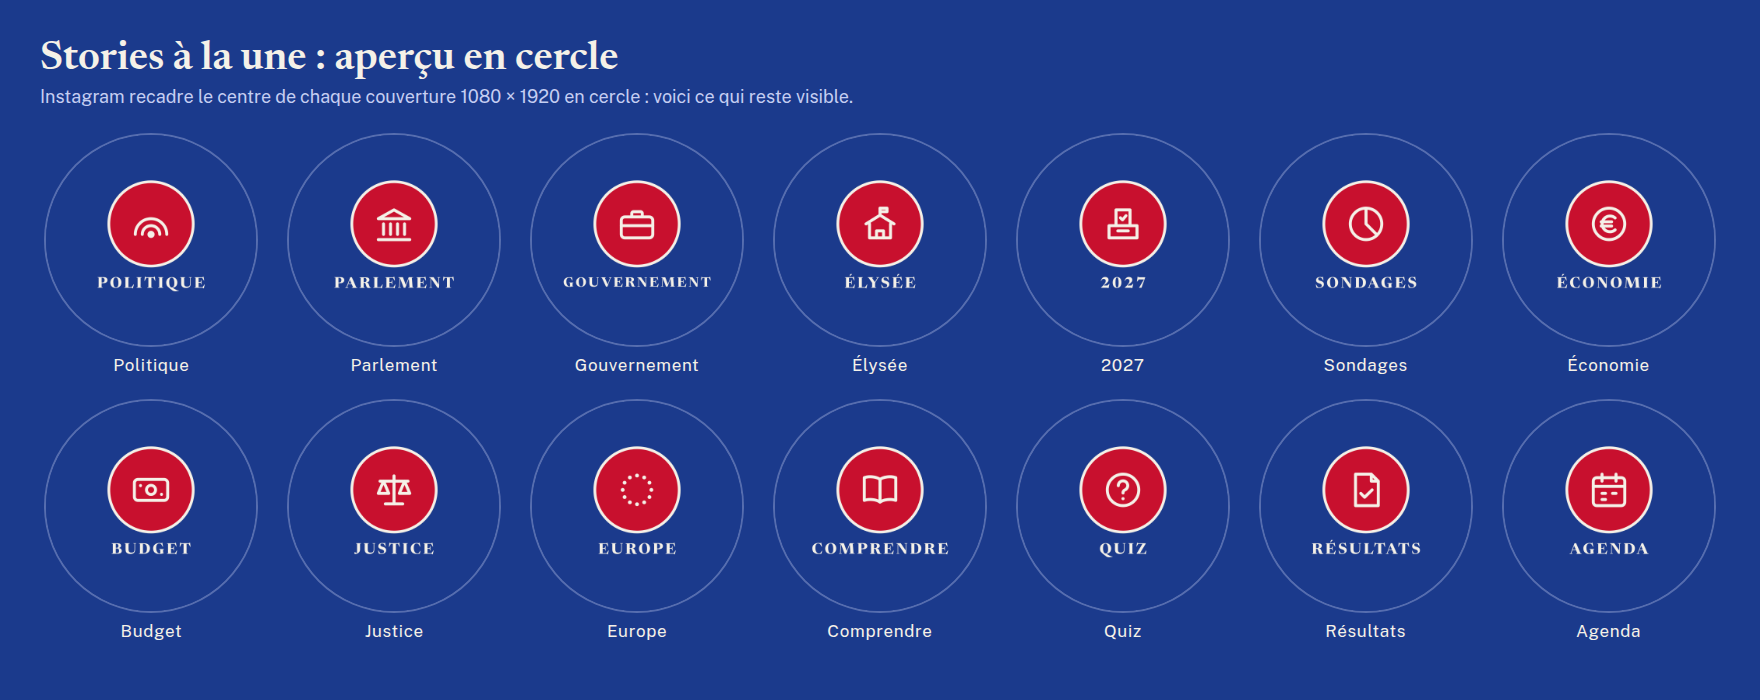
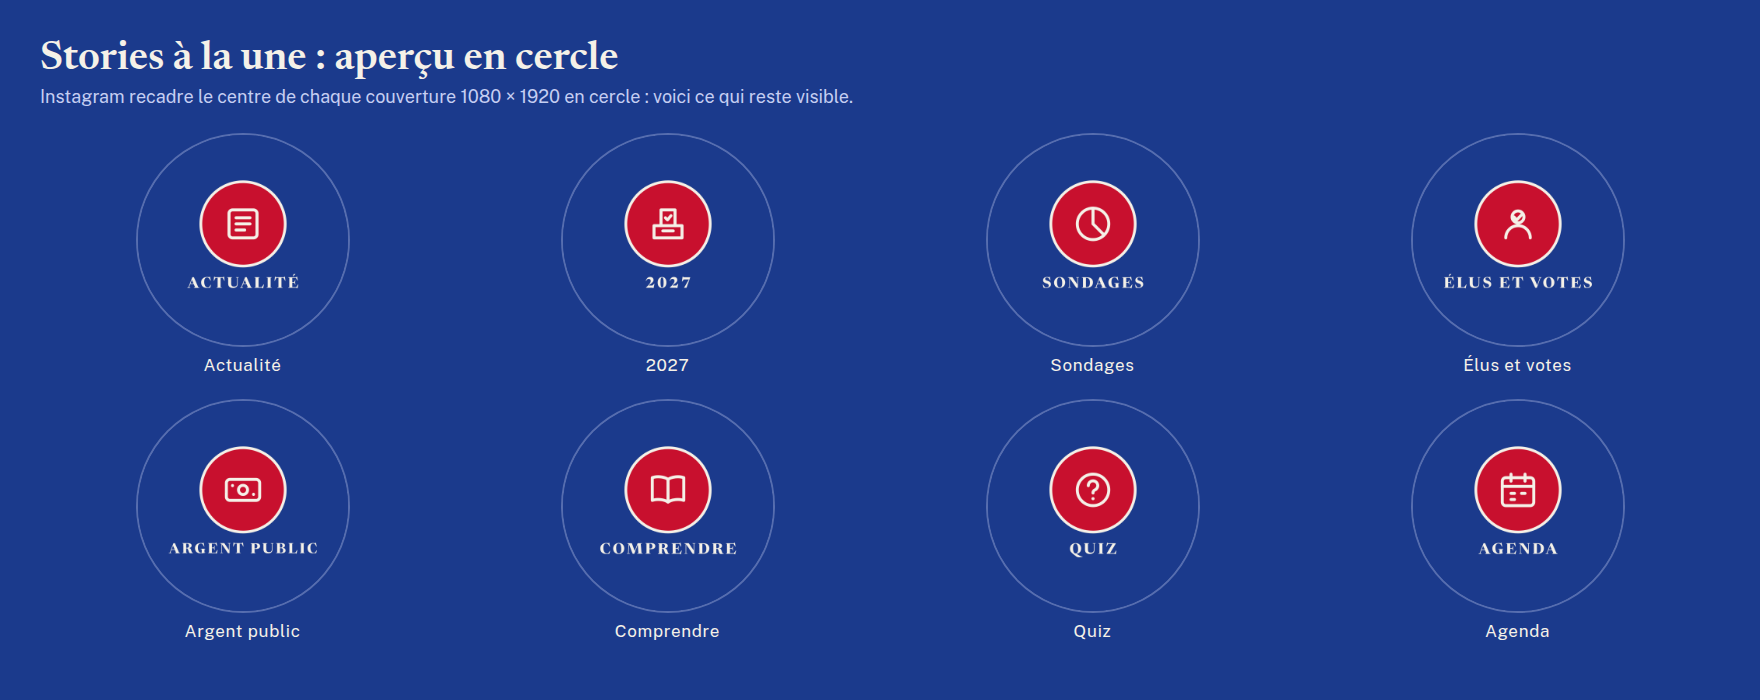
À la une : 8 rubriques (actualité, 2027, sondages, élus et votes, argent public, comprendre, quiz, agenda)

diff --git a/docs/A-LA-UNE.md b/docs/A-LA-UNE.md
@@ -1,34 +1,27 @@
 # Les stories à la une (Highlights) d'@hemicyclefrance
 
 **Ce qui est automatique, ce qui ne l'est pas.** L'API Instagram ne permet ni de créer une « à la une » ni d'y ajouter une story :
-cela se fait **à la main, dans l'appli**. Le dépôt prépare tout le reste : 14 couvertures aux couleurs du site, une règle de classement
+cela se fait **à la main, dans l'appli**. Le dépôt prépare tout le reste : 8 couvertures aux couleurs du site, une règle de classement
 simple, et chaque dimanche une liste « à ajouter cette semaine » (voir la fin de ce guide). Comptez 2 minutes par une, une seule fois ;
 ensuite, 2 minutes par semaine.
 
 ## 1. Les couvertures
 
-Les 14 couvertures (1080 × 1920 PNG, fond bleu, disque rouge, icône et mot court centrés) sont dans `instagram/a-la-une/`.
+Les 8 couvertures (1080 × 1920 PNG, fond bleu, disque rouge, icône et mot court centrés) sont dans `instagram/a-la-une/`.
 Aperçu de l'ensemble, tel qu'Instagram les recadre en cercle : `instagram/a-la-une/planche.png`.
 
 | Ordre | Fichier | Nom à saisir | Ce qu'on y range |
 |---|---|---|---|
-| 1 | `politique.png` | Politique | actualité politique du jour, dossiers du moment |
-| 2 | `parlement.png` | Parlement | Assemblée, Sénat, textes en discussion, votes |
-| 3 | `gouvernement.png` | Gouvernement | Premier ministre, ministres, remaniements |
-| 4 | `elysee.png` | Élysée | Président de la République, Conseil des ministres |
-| 5 | `presidentielle.png` | 2027 | présidentielle : candidatures, primaires, calendrier |
-| 6 | `sondages.png` | Sondages | sondages d'intentions de vote et de popularité |
-| 7 | `economie.png` | Économie | emploi, prix, énergie, croissance |
-| 8 | `budget.png` | Budget | budget de l'État, Sécurité sociale, impôts, dette |
-| 9 | `justice.png` | Justice | décisions et institutions judiciaires (faits seulement) |
-| 10 | `europe.png` | Europe | Union européenne, international |
-| 11 | `comprendre.png` | Comprendre | explications : comment ça marche, jargon |
-| 12 | `quiz.png` | Quiz | quiz et jeux de connaissances |
-| 13 | `resultats.png` | Résultats | lois adoptées ou rejetées, résultats de scrutins |
-| 14 | `agenda.png` | Agenda | dates à retenir : séances, élections, rendez-vous |
+| 1 | `actu.png` | Actualité | l'actualité politique : gouvernement, Élysée, justice, international (faits seulement) |
+| 2 | `presidentielle.png` | 2027 | présidentielle : candidatures, primaires, calendrier |
+| 3 | `sondages.png` | Sondages | sondages d'intentions de vote et de popularité |
+| 4 | `elus.png` | Élus et votes | députés, sénateurs, lois votées : adoptées ou rejetées |
+| 5 | `argent.png` | Argent public | budget de l'État, impôts, dette, Sécurité sociale |
+| 6 | `comprendre.png` | Comprendre | explications : comment ça marche, jargon |
+| 7 | `quiz.png` | Quiz | quiz et jeux de connaissances |
+| 8 | `agenda.png` | Agenda | dates à retenir : séances, élections, rendez-vous |
 
-**Ordre conseillé sur le profil** : Politique, Parlement, Gouvernement, Élysée, 2027, Sondages en tête (le cœur du site),
-puis Économie, Budget, Justice, Europe, et en fin de rangée Comprendre, Quiz, Résultats, Agenda.
+**Ordre conseillé sur le profil** : celui du tableau (l'actualité et la présidentielle en tête, puis le cœur du site).
 Pour changer l'ordre sur le profil, faites un appui long sur une une puis déplacez-la (selon la version de l'appli) ; sinon, créez-les dans l'ordre du tableau.
 
 Les noms font 12 caractères au plus. Si Instagram en coupe un sous le cercle (« Gouvernement » est le plus long), abrégez-le dans le titre : la couverture, elle, reste complète.

diff --git a/docs/a-la-une-semaine.md b/docs/a-la-une-semaine.md
@@ -1,38 +1,33 @@
 # À la une : à ajouter cette semaine
 
-Semaine 2026-W41 (du 29 septembre 2026 au 6 octobre 2026). Fichier généré par `scripts/suggestions-a-la-une.cjs` ; ne pas modifier à la main.
+Semaine 2026-W41 (du 30 septembre 2026 au 7 octobre 2026). Fichier généré par `scripts/suggestions-a-la-une.cjs` ; ne pas modifier à la main.
 Instagram ne permet pas d'ajouter une story à une une automatiquement : à faire dans l'appli, voir [A-LA-UNE.md](A-LA-UNE.md).
 
 ## À ajouter cette semaine
 
 | Publiée le | À ajouter à la une | Type | Story ou post | Confiance |
 |---|---|---|---|---|
-| 2 octobre 2026 | **Politique** | story | (sans titre, identifiant bardella-0210) | faible |
+| 2 octobre 2026 | **Actualité** | story | (sans titre, identifiant bardella-0210) | faible |
 | 3 octobre 2026 | **2027** | story | Brésil. Élection présidentielle : Lula et le fils Bolsonaro au coude à coude dans un pays très polarisé | moyenne |
-| 3 octobre 2026 | **Politique** | story | (sans titre, identifiant jour-0310) | faible |
-| 4 octobre 2026 | **Politique** | story | (sans titre, identifiant lyceens-0410) | faible |
+| 3 octobre 2026 | **Actualité** | story | (sans titre, identifiant jour-0310) | faible |
+| 4 octobre 2026 | **Actualité** | story | (sans titre, identifiant lyceens-0410) | faible |
 | 5 octobre 2026 | **2027** | story | (sans titre, identifiant alaune-primaire-0510) | moyenne |
-| 5 octobre 2026 | **Politique** | story | (sans titre, identifiant direct-lycees-0510) | faible |
+| 5 octobre 2026 | **Actualité** | story | (sans titre, identifiant direct-lycees-0510) | faible |
 | 5 octobre 2026 | **2027** | story | (sans titre, identifiant dossier-primaire-0510) | moyenne |
 | 5 octobre 2026 | **Agenda** | story | (sans titre, identifiant date-a-retenir-0510) | haute |
-| 6 octobre 2026 | **Politique** | story | Blocus des lycées | faible |
-| 6 octobre 2026 | **2027** | story | Primaire de la gauche | moyenne |
+| 6 octobre 2026 | **Argent public** | story | Blocus des lycées | haute |
+| 6 octobre 2026 | **Argent public** | story | Primaire de la gauche | haute |
+| 7 octobre 2026 | **Élus et votes** | story | Aujourd'hui à l'Assemblée | haute |
 
 Confiance « faible » : aucun indice net, la rubrique par défaut (Politique) est proposée ; à vérifier d'un coup d'œil.
 
 ## Par rubrique (toutes les publications suivies)
 
-- **Politique** : 5 publication(s), la plus récente le 6 octobre 2026
-- **Parlement** : aucune pour l'instant
-- **Gouvernement** : aucune pour l'instant
-- **Élysée** : aucune pour l'instant
-- **2027** : 4 publication(s), la plus récente le 6 octobre 2026
+- **Actualité** : 4 publication(s), la plus récente le 5 octobre 2026
+- **2027** : 3 publication(s), la plus récente le 5 octobre 2026
 - **Sondages** : aucune pour l'instant
-- **Économie** : aucune pour l'instant
-- **Budget** : aucune pour l'instant
-- **Justice** : aucune pour l'instant
-- **Europe** : aucune pour l'instant
+- **Élus et votes** : 1 publication(s), la plus récente le 7 octobre 2026
+- **Argent public** : 2 publication(s), la plus récente le 6 octobre 2026
 - **Comprendre** : aucune pour l'instant
 - **Quiz** : aucune pour l'instant
-- **Résultats** : aucune pour l'instant
 - **Agenda** : 1 publication(s), la plus récente le 5 octobre 2026

diff --git a/instagram/LISEZMOI.md b/instagram/LISEZMOI.md
@@ -15,7 +15,7 @@ Sondages 2027 · Actus sourcées
 Données officielles, chaque heure
 ```
 
-- **À la une** : 14 couvertures 1080×1920 dans `a-la-une/` (aperçu : `a-la-une/planche.png`, rendu : `scripts/couvertures-a-la-une.cjs`), guide pas à pas et règle de classement dans `docs/A-LA-UNE.md`, liste hebdomadaire « à ajouter » dans `docs/a-la-une-semaine.md`. Création et ajout restent manuels (l'API Instagram ne les permet pas). Les anciennes `rubrique-*.png` restent pour mémoire.
+- **À la une** : 8 couvertures 1080×1920 dans `a-la-une/` (aperçu : `a-la-une/planche.png`, rendu : `scripts/couvertures-a-la-une.cjs`), guide pas à pas et règle de classement dans `docs/A-LA-UNE.md`, liste hebdomadaire « à ajouter » dans `docs/a-la-une-semaine.md`. Création et ajout restent manuels (l'API Instagram ne les permet pas). Les anciennes `rubrique-*.png` restent pour mémoire.
 
 ## Publications automatiques (`instagram/auto/`)
 
